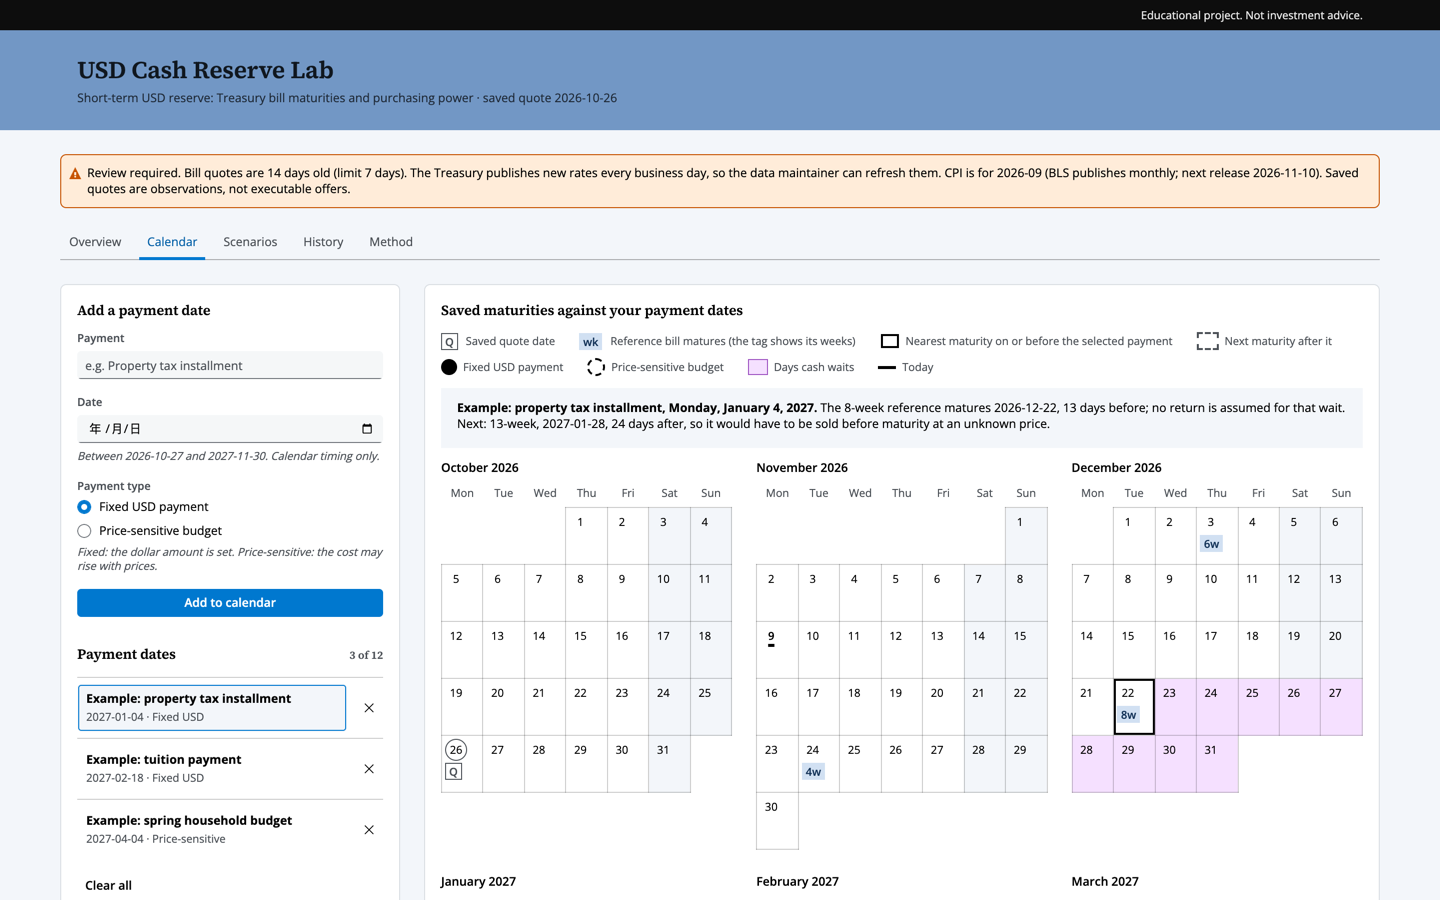
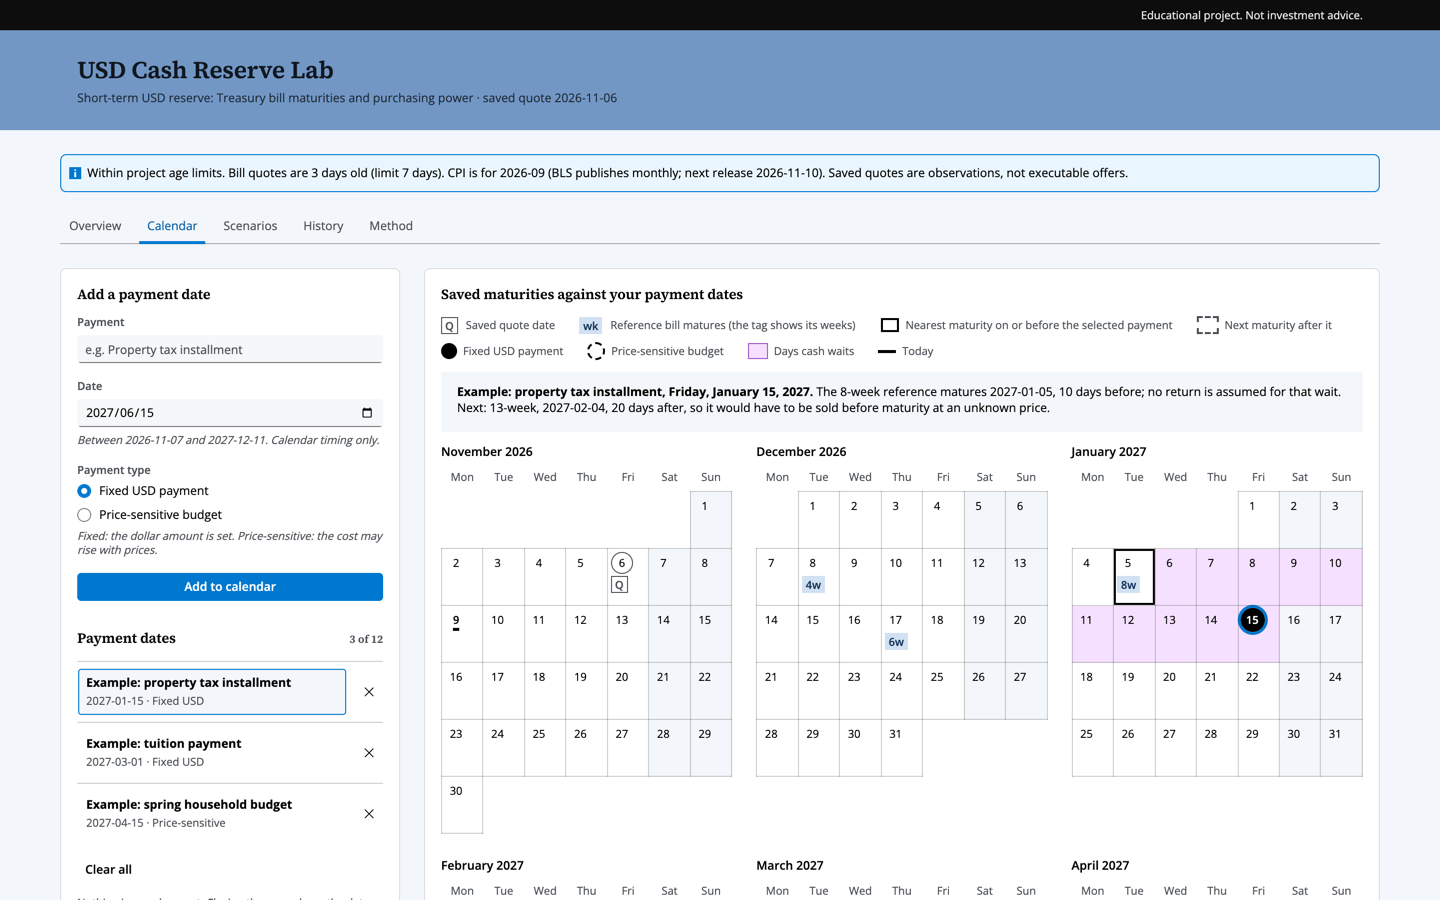
docs: merge the user-value lead's log entry and recapture the screenshots
The user-value lead's entry now has the same fields as the others;
its November 9 follow-up is folded in, and the refresh.py change made
in that copy is recorded as not adopted. A new entry records the
members' test and checking sessions. Screenshots show the 2026-11-06
release, with the date field filled so no system-language placeholder
appears.

diff --git a/bms5312-g09-usd-cash/AI_LOG.md b/bms5312-g09-usd-cash/AI_LOG.md
@@ -25,31 +25,32 @@ One entry per substantive session. People appear by role only:
   - BLS HTML pages returned 403 to scripts while the JSON API worked. Values were cross-checked against the BLS web table.
   - October 2025 CPI was never published and is kept as missing.
   - A mobile select label was clipped and was shortened.
-  - In a revision, the bank discount quote had been mapped to `core:bond-yield` (yield to maturity). It was remapped to the group term `bank-discount-rate`.
 - **Contributions:** project lead: topic, direction and approval of the approach. Assistant: code, data snapshots and drafts.
 
-## Original dashboard review (user-value lead)
-- **Tool:** AI chat assistant for the review; Astra for carrying out the improvements.
-- **Goal:** a stricter review of the original dashboard's purpose, features and presentation.
+## 2026-10-27 to 2026-11-09: Original dashboard review (user-value lead)
+- **Tool:** OpenAI Codex desktop for the review and implementation; local Python and Node.js for source, calculation and rebuild checks; the Codex in-app browser for interaction and layout checks.
+- **Goal and supplied files:** help a family-office client check when cash is needed and what it could buy at maturity. The conversation included the assignment PDF, student pack file guide, START_HERE.md, two assignment ZIPs and the project proposal. For the revision, the lead directed Codex to the existing index.html, data.js, README.md, PROPOSAL.md, ontology.yml, calculation files and test records, together with AGENT_GUIDE.md and the class ONTOLOGY.yml. The final Group 09 ZIP was supplied separately for the November 9 demo review.
 - **Prompt summary, decisions and effects:**
 
 | # | Type | What the user-value lead asked | Effect on the work |
 |---|---|---|---|
-| 1 | Financial logic | Whether short-term cash must beat inflation, and whether comparing a short holding with annual inflation is sound | Liquidity, safety and payment timing come first; inflation is shown as purchasing power over the same period |
-| 2 | Product direction | A stricter feature review, with more visual polish and better interaction | The AI proposed date matching, a sensitivity chart, a purchasing-power breakdown and layout changes; these were AI proposals, decided later |
-| 3 | Deliverable form | The review turned into complete prompts another AI could carry out, with an English interface | Output became implementation instructions; a local path was removed from the prompts |
-| 4 | Review scope | Re-evaluation against the instructor's questions on purpose, user tasks, continued use and stakeholder value | The review widened from features and looks to business value, maintenance, user testing and course evidence |
-| 5 | Collaboration | A teammate would carry out the changes with Astra, step by step, with each step's purpose | Work split into eight stages; AI tasks separated from the checks, tests and reviews members must do themselves |
-| 6 | Presentation scope | A one-minute English script for the user-value part, with the matching clicks | The demo focuses on how an inflation change affects purchasing power, using the current page names |
+| 1 | Financial logic | Why should short-term cash be judged against inflation? | The review distinguished a fixed dollar bill from spending whose cost can change. The model compares purchasing power over the actual holding period; beating inflation is not a condition for meeting a payment. |
+| 2 | Product direction | Make the tool show whether each maturity fits the spending date, and explain the purchasing-power result. | The v2 candidate added date matching, an inflation sensitivity chart, a decomposition and a zero-interest benchmark over the selected bill's exact holding period. |
+| 3 | Deliverable form | Make the changes in a working English dashboard, not just a proposal or mock-up. | Codex produced a separate runnable candidate and ZIP. The original project stayed intact. |
+| 4 | Review scope | For the presentation, explain whom the tool serves, its task, stakeholder value and usefulness after one year. | The demo distinguished an intended benefit from measured client impact, and the continuing use of the tool from the limited life of its saved quotations. |
+| 5 | Collaboration | Divide a five-minute presentation among five people, using only the dashboard. | Each speaker had one question and a dashboard cue. The group kept technical checks separate from student calculations, user testing and release decisions. |
+| 6 | Presentation scope | Prepare the one-minute actual-task segment: enter a tuition date and explain the calendar row. | The November 9 script used the final G09 form and the seven-maturity calendar. The inflation demonstration belonged to the next speaker. |
+| 7 | Comparison basis | Does a longer bill's larger dollar gain make it better? What happens before or after the payment date? | Both maturities use the same comparison fields but retain their own periods. The tool does not rank them, assume reinvestment during a gap or price an early sale. |
+| 8 | Evidence | Verify that the displayed inputs, dates and results agree, and distinguish file-mode testing from an HTTP preview. | Codex checked the saved quote-to-maturity day counts, invalid inputs, missing CPI, common history windows and mobile layout. It recorded the blocked v2 file-mode browser test separately. |
 
-- **Open at the end of that session:**
-  - replacing the original with the redesign;
-  - automatic refresh;
-  - the default inflation and age limits;
-  - seven-tenor and reinvestment models;
-  - student checks and user tests.
-
-  The 2026-11-09 entry records how each was settled.
+- **Executed:** Codex revised the v2 candidate's index.html, calculations/rebuild.py, data.js and ontology.yml; added calculations/check_revision.mjs; and updated README.md, PROPOSAL.md, calculations/method.md, SKILL.md, EVALS.md and AGENT_TEST.md. It captured desktop and mobile screenshots and verified that a clean rebuild reproduced data.js byte for byte. In the November 9 follow-up, working in its own copy of the G09 package, it replaced presentation.pdf with a five-speaker dashboard guide, corrected the speaker 3 script, checked the calendar row for the demo payment, and reran the source, model and refresh checks and isolated withheld-update and wrong-unit checks. Dashboard and market data were left unchanged.
+- **Errors and concerns tested, and how they were checked:**
+  1. **Annual quote vs. holding return.** The lead challenged the use of annual inflation to judge short-term cash. Codex checked the formulas: the bank discount quote determines a modeled price; the assumed inflation factor covers the same quote-to-maturity days. Past CPI was kept as historical context.
+  2. **Wrong vocabulary mapping.** The lead requested a check against the class ontology. Codex found that the two bank discount quotes were labeled core:bond-yield, which the class defines as yield to maturity. It corrected the exporter to use the group bank-discount-rate term, rebuilt data.js and checked that the two original modeled results did not change.
+  3. **Wrong demo row.** Codex initially told the speaker to read "32 days early" from the G09 Tuition row. The lead requested a comparison with the earlier version. Codex traced the error to using the old two-bill comparison for the new seven-maturity calendar. Running the G09 calendar code for March 1, 2027 with the 2026-10-26 quotes returned the 17-week bill on February 23 (six days early) and the 26-week bill on April 29 (59 days late). The 13-week bill was 32 days early but was not the nearest earlier maturity.
+  4. **Presentation format.** The lead rejected the suggestion to use slides during the five-minute talk. The revised plan used the live dashboard throughout. The later package check also found that the G09 presentation PDF was byte-identical to the earlier v2 PDF; Codex replaced it with the G09 live-demo guide.
+  5. **A change outside the review.** In the same copy, Codex changed the refresh command to stage candidate/ by default and refuse the project folder as output. The group kept the refresh.py that Task A had tested: SKILL.md already stages every update in candidate/, and nothing is released until a person accepts.
+- **Files and contributions:** The user-value lead questioned the financial premise, specified the comparison and evidence requirements, chose a dashboard-only presentation and requested the version check. Codex implemented and tested the separate v2 candidate and corrected the G09 demo materials. The later seven-tenor redesign is recorded in the November 8 entry. Independent calculations, non-builder feedback and acceptance decisions remained with the group. That copy's presentation.pdf and refresh.py were not merged; the submitted script and backup slides come from the project lead's 2026-11-09 session.
 
 ## 2026-11-08: Redesign, refresh script and payment calendar
 - **Tool:** Claude Code desktop app (agent with file, shell and headless-browser tools).
@@ -62,7 +63,7 @@ One entry per substantive session. People appear by role only:
   - Answer the project lead's design questions.
 - **Decisions and reasons:**
   - The assistant's review found that monthly manual upkeep against a 7-day quote limit would show the stale warning most of the time.
-  - It found that only 2 of the 7 saved tenors were used. A 2027-03-01 payment fell 32 days after the 13-week maturity, while a saved 17-week bill matured 6 days before it.
+  - It found that only 2 of the 7 saved tenors were used. With the 2026-10-26 quotes, a 2027-03-01 payment fell 32 days after the 13-week maturity, while a saved 17-week bill matured 6 days before it.
   - So it added `refresh.py` (download, then the accepted rebuild, then a candidate folder) and a seven-tenor calendar.
   - The project lead chose a Goldman Sachs-style blue under a black strip. Overview gained a payment-timing chart and a purchasing-power bridge.
   - The bill comparison stays a table so that no bill looks "better".
@@ -110,22 +111,28 @@ One entry per substantive session. People appear by role only:
 
 ## 2026-11-09: Final version, data in one file and the maintenance skill
 - **Tool:** Claude Code desktop app.
-- **Goal and supplied files:** make the redesign the final submission, follow the instructor's assignment folder, and prepare the maintenance skill for a fresh-assistant test.
+- **Goal and supplied files:** make the redesign the final submission, follow the instructor's assignment folder, and prepare the maintenance skill for a fresh-assistant test; then merge the members' results and prepare the presentation. Supplied later: the members' returned files and the user-value lead's log entry.
 - **Prompt summary:**
   - Adopt the redesign.
   - Fold the seven-tenor data into `data.js`.
   - Keep `refresh.py` and combine it with `SKILL.md` so that the person sees a before/after table with source links before approving.
   - Map the evaluations to the course's eight checks.
   - Separate the submission from group materials.
+  - Merge the members' returned files and the user-value lead's log entry.
+  - Replace every remaining Chinese text with English.
+  - Write a five-minute live-demo script, one question per speaker with the dashboard steps, and backup slides.
 - **Decisions and reasons:**
   - The project lead adopted the redesign as the final page; the original stays in the git history.
   - The bill ladder moved into `data.js` (`data.bill_ladder`), because only `index.html` and `data.js` are served.
   - Updates go through `refresh.py --out candidate`, then `tools/candidate.py review`. The data maintainer compares the values with the sources, then accepts or rejects. There is no scheduler.
-  - The student checks and the fresh-assistant tests are done by members who did not build the page.
+  - The student checks and the update test were done by members who did not build the page; the project lead ran the failure test.
+  - The talk is a five-minute live demo, as the instructor allowed. Five speakers each answer one of the course's five presentation questions. The slides are a backup and the course's `presentation.pdf`.
+  - The `refresh.py` change from the user-value lead's copy was not adopted; that entry gives the reason.
 - **Executed:**
   - The assistant rewrote `rebuild.py`, `refresh.py`, `verify.py`, the checks and the documents, and wrote `tools/candidate.py`.
   - A clean copy rebuilt `data.js` and `index.html` byte-identically.
   - The assistant ran the skill end to end on a scratch copy with live data before handing it to members.
+  - After the members' tests, the assistant merged the returned files, recaptured the screenshots with the released data and replayed the demo clicks in headless Chrome to read every number in the script.
 - **Errors and concerns tested, and how they were checked:**
   1. **A teammate reviewer's AI found that the redesign was not submittable.**
      - It needed a third file (`bills.js`).
@@ -148,10 +155,39 @@ One entry per substantive session. People appear by role only:
   6. **The review tool crashed with a bare `KeyError`** instead of naming a removed field. The automated check caught it. Removed fields now stop the review with their names.
   7. **The source-register check passed even without the update it tested.** The assistant's own review of the test caught it. It now checks the dates moving back on restore.
   8. **The refresh checks failed after the first real release.** They took the raw files from the project folder but compared the results with the frozen 2026-10-26 data set, so 7 of 44 failed once Task A released the 2026-11-06 quotes. The assistant's live trial had not rerun this suite after releasing; merging the returned Task A files caught it. The frozen release now carries its raw inputs (`tests/fixtures/inputs_2026-10-26/`), and all 44 pass on the new data.
+  9. **The demo numbers changed with the release.** The user-value lead's demo row came from the 2026-10-26 quotes. With the released 2026-11-06 quotes, a 1 March 2027 payment is reached by the 13-week bill 25 days early, and the 17-week bill matures 8 days after it. The assistant found this while merging that entry. Every number in the script was then read from the final page by replaying the clicks in headless Chrome.
+  10. **Chinese text in the evidence.** The project lead asked for English throughout. A scan found the Task B decision and the browser's date placeholder in two screenshots. The decision was translated, and the date field is now filled before each capture.
 - **Files and contributions:**
-  - The assistant wrote the code and documents.
-  - The project lead made the final decisions: the redesign as the final page, `refresh.py` in the package, human approval, group 9, and the class prefix.
+  - The assistant wrote the code, documents, presentation script and backup slides.
+  - The project lead made the final decisions: the redesign as the final page, `refresh.py` in the package, human approval, group 9, the class prefix and the presentation format. The project lead also ran the failure test.
   - The teammate reviewer's review prompted the restructure.
 
+## 2026-11-09: Fresh-assistant tests and student checks (members)
+- **Tool:** Codex desktop with file access, shell and Python; network only when the maintainer allowed it. Excel for the student workbook.
+- **Goal and supplied files:** test `SKILL.md` in new conversations and check the calculations independently. Supplied: the submission ZIP with the 2026-10-26 data; for Task B, a copy whose `project.json` was replaced by `maintenance/invalid_unit_config.json`.
+- **Prompt summary:**
+  - Task A: follow `SKILL.md` to update the data to the newest official observations; show the before/after table, flags and source links, and wait for the maintainer's decision.
+  - Task B: the same request in the test copy.
+  - Task C: read the filled workbook and update the student routes of E1–E3 in `EVALS.md`.
+  - At the end of each chat: fill in the test record from what actually happened.
+- **Decisions and reasons:**
+  - Task A: the data maintainer accepted the 2026-11-06 candidate after the review. The 13-week and 26-week rates (4.01% and 4.12%) and the September CPI index (336.940) were confirmed against the official pages.
+  - When the page check could not run, the assistant restored the previous version, as `SKILL.md` requires. The release was repeated only after the candidate's SHA-256 matched the one accepted.
+  - Task B: the maintainer endorsed the stop and authorized no configuration change.
+- **Executed:**
+  - Task A: refresh, review, release, restore, then review and release again; page checks 32 of 32 and Decimal checks 15 of 15 after the final release.
+  - Task B: one refresh attempt, which stopped at the unit check before any download.
+  - Task C: the checker typed the official values into the workbook's input cells; its formulas returned 16 PASS results.
+- **Errors and concerns tested, and how they were checked:**
+  1. **No network in the sandbox.** The first download failed on DNS. The maintainer allowed network access for that one command.
+  2. **Certificate check failed.** Python could not verify the Treasury server. The maintainer had the assistant use the system certificate file instead of turning verification off, and the download succeeded.
+  3. **Node not on the PATH.** The page check could not run after the first release, so the assistant restored the old version. The maintainer supplied an existing Node; the assistant checked its version and the candidate's SHA-256, released again, and both checks passed.
+  4. **Python 3.9.5 in Task B,** below the stated 3.10. The refresh still reached the unit check and stopped there, as expected.
+
+  These led to the `SKILL.md` changes recorded in `AGENT_TEST.md`.
+- **Files and contributions:** `AGENT_TEST.md`, `evidence/task_a_operations.md`, `evidence/task_b_operations.md`, `evidence/release_review.md`, `maintenance/release_log.csv`, `evidence/independent_check.xlsx` and the E1–E3 student routes in `EVALS.md`. Members who did not write `SKILL.md` ran Task A and the Excel check; the project lead ran Task B. The assistants ran the commands and drafted the records; the people made every decision.
+
 ## Next steps
-Members complete the student routes in `EVALS.md`, Tasks A and B in `AGENT_TEST.md` and `evidence/user_test.md`, then rebuild the final ZIP with the official identifier.
+- The user test (E4, E5) by a member who did not build the page has not run yet; the questions are in `evidence/user_test.md`. The student route of the clean reproduction (E8) has not run either.
+- Refresh the data weekly with `SKILL.md`. The October 2026 CPI is due on 2026-11-10.
+- Add payment amounts to the calendar, so it shows whether the cash covers each payment.

diff --git a/bms5312-g09-usd-cash/PROPOSAL.md b/bms5312-g09-usd-cash/PROPOSAL.md
@@ -68,7 +68,7 @@ Controls: amount, inflation, reference bill, payment dates and type, history win
 ## Three substantive decisions and their reasons
 1. **Payment timing comes before purchasing power.** The Overview opens with the maturities against the payment dates, and the calendar uses all seven tenors of the latest quote date.
    - *Reason:* for a reserve, missing a payment date costs more than a few basis points.
-   - *Reason:* the two reference bills alone left wide gaps. A payment on 2027-03-01 was 32 days after the 13-week maturity, while a saved 17-week bill matured 6 days before it.
+   - *Reason:* the two reference bills alone left wide gaps. With the 2026-10-26 quotes, a payment on 2027-03-01 was 32 days after the 13-week maturity, while a saved 17-week bill matured 6 days before it.
 2. **Inflation over the same period as the holding.** The assumed annual rate is converted to the holding period, (1 + a)^(n/365), before dividing the proceeds.
    - *Reason:* subtracting last year's CPI from an annualised bill rate mixes two periods and two conventions.
    - *Reason:* a user-set assumption makes the uncertainty explicit.

diff --git a/bms5312-g09-usd-cash/README.md b/bms5312-g09-usd-cash/README.md
@@ -117,7 +117,7 @@ Every release, rejection and restore is a line in `maintenance/release_log.csv`,
 | `calculations/` | `rebuild.py` (method), `verify.py` (second route), `method.md`, `manual_checks.csv` (hand-check formulas) |
 | `refresh.py`, `tools/candidate.py`, `SKILL.md` | Download, review and release, and the assistant's instructions |
 | `maintenance/` | CPI release schedule, release log, test inputs for the agent tests |
-| `tests/` | Maintenance checks and the frozen 2026-10-26 data set they use |
+| `tests/` | Maintenance checks and the frozen 2026-10-26 release (data set and raw inputs) they use |
 | `dashboard/` | Source of `index.html` (React with the Salt design system, built by Vite into one file) |
 | `tools/set_identity.py` | Writes the renamed submission folder and ZIP |
 | `PROPOSAL.md`, `SOURCE_REGISTER.csv`, `ontology.yml` | Brief and decisions, sources, vocabulary |
